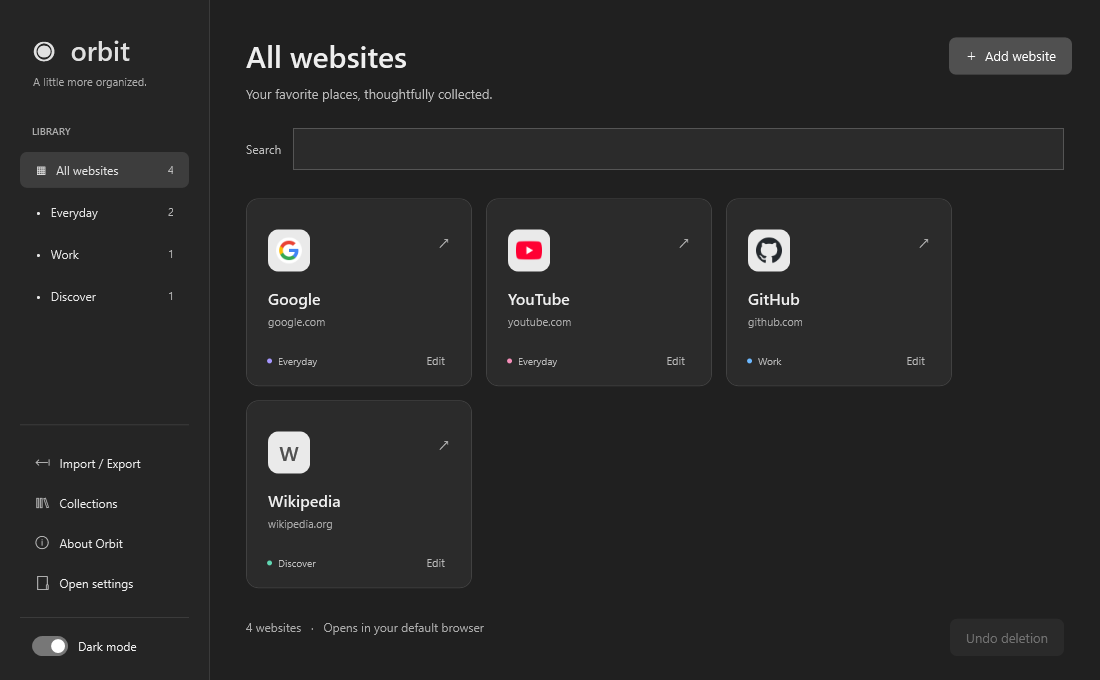
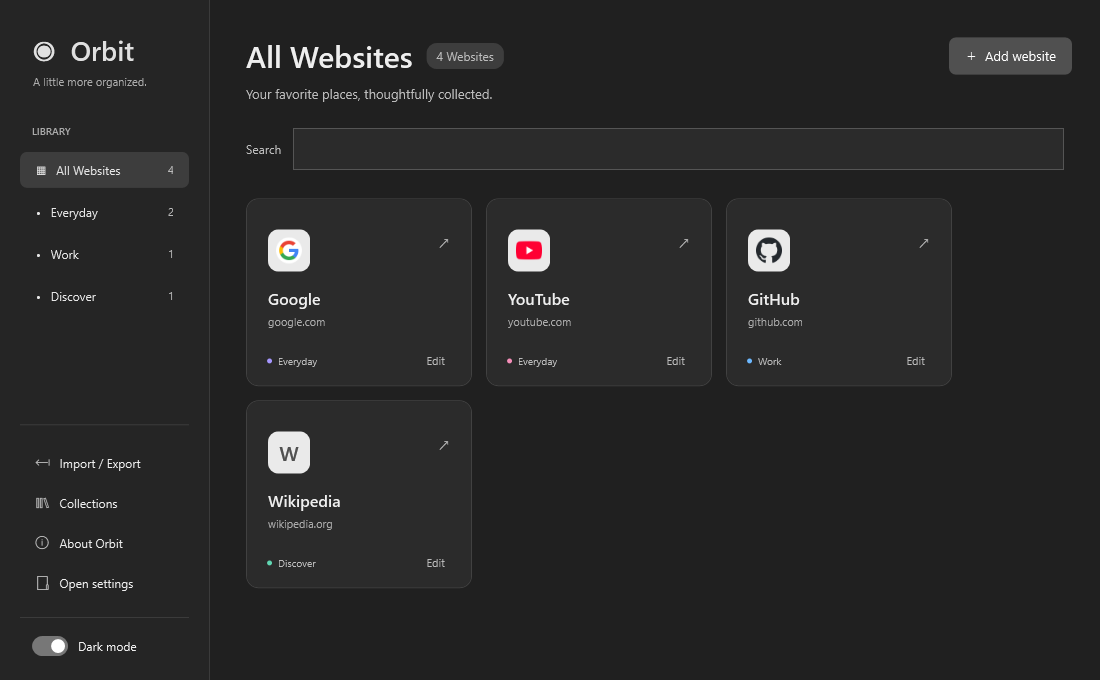
Rename application to Orbit and simplify library status and undo

diff --git a/App.xaml b/App.xaml
@@ -1,4 +1,4 @@
-<Application x:Class="ShortcutsPanel.App" xmlns="http://schemas.microsoft.com/winfx/2006/xaml/presentation" xmlns:x="http://schemas.microsoft.com/winfx/2006/xaml">
+<Application x:Class="Orbit.App" xmlns="http://schemas.microsoft.com/winfx/2006/xaml/presentation" xmlns:x="http://schemas.microsoft.com/winfx/2006/xaml">
 
   <Application.Resources>
 

diff --git a/MainWindow.cs b/MainWindow.cs
@@ -1,4 +1,4 @@
-using System.Diagnostics;
+using System.Diagnostics;
 using System.IO;
 using System.Text.Json;
 using System.Windows;
@@ -7,7 +7,7 @@ using System.Windows.Input;
 using System.Windows.Media;
 using System.Windows.Media.Imaging;
 using System.Net.Http;
-namespace ShortcutsPanel;
+namespace Orbit;
 public record Shortcut(string Name, string Url, string Group, string Color, string? Icon = null, string Id = "");
 public partial class MainWindow : Window
 {
@@ -17,7 +17,9 @@ public partial class MainWindow : Window
     readonly TextBlock heading = new() { FontSize = 30, FontWeight = FontWeights.SemiBold };
     static readonly Dictionary<string, Task<BitmapSource?>> logos = new();
     readonly TextBox search = new() { Width = 280, ToolTip = "Search by name, website, or collection" };
-    readonly TextBlock status = new() { Foreground = Brush("#939DB8"), FontSize = 12 };
+    readonly TextBlock websiteCount = new() { FontSize = 12, Foreground = Brush("#7B8377"), VerticalAlignment = VerticalAlignment.Center };
+    readonly TextBlock status = new() { FontSize = 12, VerticalAlignment = VerticalAlignment.Center, TextTrimming = TextTrimming.CharacterEllipsis };
+    Border undoNotice = null!;
     List<Shortcut> entries = [];
     string selectedGroup = "All";
     List<string> collectionOrder = [];
@@ -31,7 +33,7 @@ public partial class MainWindow : Window
         try { Theme.Apply(settings.LoadDarkTheme()); }
         catch { Theme.Apply(false); }
         Background = Brush("#FAF9F6"); Foreground = Brush("#252924"); FontFamily = new FontFamily("Segoe UI");
-        Title = "Orbit • Shortcuts Panel"; Width = 1100; Height = 720; MinWidth = 800; MinHeight = 520;
+        Title = "Orbit"; Width = 1100; Height = 720; MinWidth = 800; MinHeight = 520;
         WindowStartupLocation = WindowStartupLocation.CenterScreen; WindowState = WindowState.Maximized;
         var root = new Grid(); Content = root;
         root.ColumnDefinitions.Add(new ColumnDefinition { Width = new GridLength(210) });
@@ -39,7 +41,7 @@ public partial class MainWindow : Window
         var sidebar = new DockPanel { Margin = new Thickness(20, 32, 20, 24) };
         var sideSurface = new Border { Background = Brush("#F1F2ED"), BorderBrush = Brush("#E2E5DD"), BorderThickness = new Thickness(0,0,1,0), Child = sidebar }; root.Children.Add(sideSurface);
         var brand = new StackPanel { Margin = new Thickness(12, 0, 0, 36) };
-        brand.Children.Add(new TextBlock { Text = "◉  orbit", FontSize = 27, FontWeight = FontWeights.SemiBold, Foreground = Brush("#294B3C") });
+        brand.Children.Add(new TextBlock { Text = "◉  Orbit", FontSize = 27, FontWeight = FontWeights.SemiBold, Foreground = Brush("#294B3C") });
         brand.Children.Add(new TextBlock { Text = "A little more organized.", FontSize = 11, Foreground = Brush("#80877D"), Margin = new Thickness(1, 6, 0, 0) });
         DockPanel.SetDock(brand, Dock.Top); sidebar.Children.Add(brand);
         var bottom = new StackPanel();
@@ -68,17 +70,23 @@ public partial class MainWindow : Window
         var top = new StackPanel(); DockPanel.SetDock(top, Dock.Top); main.Children.Add(top);
         var header = new DockPanel(); top.Children.Add(header);
         var add = Button("＋  Add website", () => Edit(null), "#294B3D"); add.Foreground = Brushes.White; add.VerticalAlignment = VerticalAlignment.Center; DockPanel.SetDock(add, Dock.Right); header.Children.Add(add);
-        header.Children.Add(heading);
+        var titleRow = new DockPanel();
+        var countBadge = new Border { Background = Brush("#DFE6DA"), CornerRadius = new CornerRadius(10), Padding = new Thickness(10,5,10,5), Margin = new Thickness(14,0,18,0), VerticalAlignment = VerticalAlignment.Center, Child = websiteCount };
+        DockPanel.SetDock(heading, Dock.Left); titleRow.Children.Add(heading); titleRow.Children.Add(countBadge);
+        countBadge.HorizontalAlignment = HorizontalAlignment.Left;
+        header.Children.Add(titleRow);
         top.Children.Add(new TextBlock { Text = "Your favorite places, thoughtfully collected.", FontSize = 13, Foreground = Brush("#7B8377"), Margin = new Thickness(0, 9, 0, 26) });
         search.Width = double.NaN; search.HorizontalAlignment = HorizontalAlignment.Stretch;
         search.ToolTip = "Search websites and collections";
         System.Windows.Automation.AutomationProperties.SetName(search, "Search websites");
         var searchRow = new DockPanel { Margin = new Thickness(0, 0, 8, 28) };
         var searchLabel = new TextBlock { Text = "Search", VerticalAlignment = VerticalAlignment.Center, Margin = new Thickness(0,0,12,0), Foreground = Brush("#7B8377"), FontSize = 12 }; searchRow.Children.Add(searchLabel); searchRow.Children.Add(search); top.Children.Add(searchRow);
-        var footer = new DockPanel { Margin = new Thickness(0, 16, 8, 0) }; DockPanel.SetDock(footer, Dock.Bottom); main.Children.Add(footer);
-        undoButton = Button("Undo deletion", UndoDelete); undoButton.IsEnabled = false;
-        DockPanel.SetDock(undoButton, Dock.Right); footer.Children.Add(undoButton);
-        status.Foreground = Brush("#868D80"); footer.Children.Add(status);
+        var noticeRow = new DockPanel();
+        undoButton = Button("Undo", UndoDelete); undoButton.Margin = new Thickness(16,0,0,0);
+        DockPanel.SetDock(undoButton, Dock.Right); noticeRow.Children.Add(undoButton);
+        status.Foreground = Brush("#374632"); noticeRow.Children.Add(status);
+        undoNotice = new Border { Background = Brush("#DFE6DA"), BorderBrush = Brush("#E2E5DD"), BorderThickness = new Thickness(1), CornerRadius = new CornerRadius(10), Padding = new Thickness(14,8,8,8), Margin = new Thickness(0,12,8,0), MaxWidth = 460, HorizontalAlignment = HorizontalAlignment.Left, Visibility = Visibility.Collapsed, Child = noticeRow };
+        DockPanel.SetDock(undoNotice, Dock.Bottom); main.Children.Add(undoNotice);
         main.Children.Add(new ScrollViewer { Content = cards, VerticalScrollBarVisibility = ScrollBarVisibility.Auto, HorizontalScrollBarVisibility = ScrollBarVisibility.Disabled });
         search.TextChanged += (_, _) => RenderCards();
         Load(); Render();
@@ -126,9 +134,9 @@ public partial class MainWindow : Window
             b.HorizontalContentAlignment = HorizontalAlignment.Stretch;
             var row = new DockPanel { Width = 138 };
             var number = new TextBlock { Text = count.ToString(), Foreground = Brush("#7B8377"), FontSize = 11, VerticalAlignment = VerticalAlignment.Center }; DockPanel.SetDock(number, Dock.Right); row.Children.Add(number);
-            row.Children.Add(new TextBlock { Text = name == "All" ? "▦   All websites" : "•   " + name, FontSize = 12, TextTrimming = TextTrimming.CharacterEllipsis, Foreground = Brush("#374632") });
+            row.Children.Add(new TextBlock { Text = name == "All" ? "▦   All Websites" : "•   " + name, FontSize = 12, TextTrimming = TextTrimming.CharacterEllipsis, Foreground = Brush("#374632") });
             b.Content = row; b.Margin = new Thickness(0,0,0,6); groups.Children.Add(b);
-            System.Windows.Automation.AutomationProperties.SetName(b, name == "All" ? "All websites" : name);
+            System.Windows.Automation.AutomationProperties.SetName(b, name == "All" ? "All Websites" : name);
             if (name != "All") ConfigureCollection(b, name);
         }
         RenderCards();
@@ -160,8 +168,8 @@ public partial class MainWindow : Window
             cards.Children.Add(card); ConfigureCard(card, item);
         }
         if (filtered.Count == 0) cards.Children.Add(new TextBlock { Text = entries.Count == 0 ? "A fresh start. Add your first website above." : "No websites match. Try another search or collection.", FontSize = 18, Margin = new Thickness(0, 35, 0, 35) });
-        heading.Text = selectedGroup == "All" ? "All websites" : selectedGroup;
-        status.Text = $"{filtered.Count} websites   ·   Opens in your default browser";
+        heading.Text = selectedGroup == "All" ? "All Websites" : selectedGroup;
+        websiteCount.Text = $"{filtered.Count} {(filtered.Count == 1 ? "Website" : "Websites")}";
     }
     static async Task ApplyLogo(Border badge, string url)
     {

diff --git a/MainWindow.Features.cs b/MainWindow.Features.cs
@@ -1,4 +1,4 @@
-using System.Diagnostics;
+using System.Diagnostics;
 using System.IO;
 using System.Reflection;
 using System.Text.Json;
@@ -7,7 +7,7 @@ using System.Windows.Controls;
 using System.Windows.Input;
 using System.Windows.Media;
 
-namespace ShortcutsPanel;
+namespace Orbit;
 
 public partial class MainWindow
 {
@@ -72,7 +72,7 @@ public partial class MainWindow
                 if (choice == MessageBoxResult.Cancel) return;
                 var next = choice == MessageBoxResult.Yes ? LibraryOperations.Merge(entries, incoming.Links) : incoming.Links;
                 var order = choice == MessageBoxResult.Yes ? collectionOrder.Concat(incoming.Collections).Distinct().ToList() : incoming.Collections;
-                if (Save(next, order)) { deleted.Clear(); if (undoButton != null) undoButton.IsEnabled = false; dialog.Close(); }
+                if (Save(next, order)) { deleted.Clear(); UpdateUndoNotice(); dialog.Close(); }
             }
             catch (Exception ex) { MessageBox.Show(dialog, ex.Message, "Import failed — library unchanged"); }
         }); import.Margin = new Thickness(0,12,0,18); panel.Children.Add(import);
@@ -83,14 +83,19 @@ public partial class MainWindow
         var index = entries.FindIndex(x => x.Id == item.Id); if (index < 0) return false;
         var next = entries.ToList(); next.RemoveAt(index);
         if (!Save(next)) return false;
-        deleted.Push((item, index)); if (undoButton != null) undoButton.IsEnabled = true;
-        status.Text = $"Deleted {item.Name} · Undo is available"; return true;
+        deleted.Push((item, index)); UpdateUndoNotice(); return true;
+    }
+    void UpdateUndoNotice()
+    {
+        undoNotice.Visibility = deleted.Count > 0 ? Visibility.Visible : Visibility.Collapsed;
+        status.Text = deleted.TryPeek(out var latest) ? $"Removed {latest.Item.Name}" : "";
+        if (undoButton != null) undoButton.IsEnabled = deleted.Count > 0;
     }
     void UndoDelete()
     {
         if (!deleted.TryPeek(out var restore)) return;
         var next = entries.ToList(); next.Insert(Math.Min(restore.Index, next.Count), restore.Item);
-        if (Save(next)) { deleted.Pop(); if (undoButton != null) undoButton.IsEnabled = deleted.Count > 0; }
+        if (Save(next)) { deleted.Pop(); UpdateUndoNotice(); }
     }
     void ManageCollections()
     {

diff --git a/tests/FeatureChecks.cs b/tests/FeatureChecks.cs
@@ -3,7 +3,7 @@ using System.Reflection;
 using System.Text.Json;
 using System.Windows.Media;
 using System.Windows.Media.Imaging;
-using ShortcutsPanel;
+using Orbit;
 
 internal static class FeatureChecks
 {
@@ -17,6 +17,8 @@ internal static class FeatureChecks
         var app = new App(); app.InitializeComponent();
         Check(MainWindow.LoadAppIcon().PixelWidth > 0, "About icon loads from embedded resource");
         var window = new MainWindow(store);
+        var notice = (System.Windows.Controls.Border)typeof(MainWindow).GetField("undoNotice", BindingFlags.NonPublic | BindingFlags.Instance)!.GetValue(window)!;
+        Check(window.Title == "Orbit" && notice.Visibility == System.Windows.Visibility.Collapsed, "Orbit title and hidden initial Undo notice");
         object? Call(string method, params object?[] args) => typeof(MainWindow).GetMethod(method, BindingFlags.NonPublic | BindingFlags.Instance)!.Invoke(window, args);
         try
         {
@@ -31,7 +33,9 @@ internal static class FeatureChecks
             Check(JsonSerializer.Deserialize<List<Shortcut>>(store.Load()!)![0].Name == "C", "Card order persists");
             Check((bool)Call("DeleteShortcut", original[0])!, "Delete shortcut");
             Check(JsonSerializer.Deserialize<List<Shortcut>>(store.Load()!)!.Count == 2, "Deletion saved");
+            Check(notice.Visibility == System.Windows.Visibility.Visible, "Undo notice appears after deletion");
             Call("UndoDelete");
+            Check(notice.Visibility == System.Windows.Visibility.Collapsed, "Undo notice hides after restoring last deletion");
             Check(JsonSerializer.Deserialize<List<Shortcut>>(store.Load()!)!.Select(x => x.Name).SequenceEqual(new[] { "C", "A", "B" }), "Undo restores original position");
             var pngPath = Path.Combine(directory, "icon.png");
             var bitmap = BitmapSource.Create(2, 2, 96, 96, PixelFormats.Bgra32, null, new byte[] { 0,0,255,255, 0,255,0,255, 255,0,0,255, 255,255,255,255 }, 8);

diff --git a/tests/Program.cs b/tests/Program.cs
@@ -1,5 +1,5 @@
 using Microsoft.Win32;
-using ShortcutsPanel;
+using Orbit;
 var key = @"Software\OrbitStorageChecks\" + Guid.NewGuid().ToString("N");
 var folder = Path.Combine(Path.GetTempPath(), "OrbitStorageChecks-" + Guid.NewGuid().ToString("N"));
 Directory.CreateDirectory(folder);

diff --git a/LibraryOperations.cs b/LibraryOperations.cs
@@ -2,7 +2,7 @@ using System.IO;
 using System.Text.Json;
 using System.Text.RegularExpressions;
 
-namespace ShortcutsPanel;
+namespace Orbit;
 
 public sealed record LibraryExport(int Version, List<Shortcut> Links, List<string> Collections);
 

diff --git a/tests/ThemeChecks.cs b/tests/ThemeChecks.cs
@@ -3,7 +3,7 @@ using System.Windows.Controls;
 using System.Windows.Media;
 using System.Windows.Media.Imaging;
 using System.IO;
-using ShortcutsPanel;
+using Orbit;
 
 internal static class ThemeChecks
 {

diff --git a/Theme.cs b/Theme.cs
@@ -1,4 +1,4 @@
-using System.Windows;
+using System.Windows;
 
 using System.Windows.Media;
 
@@ -8,7 +8,7 @@ using System.ComponentModel;
 
 
 
-namespace ShortcutsPanel;
+namespace Orbit;
 
 
 

diff --git a/WebsiteIcons.cs b/WebsiteIcons.cs
@@ -5,7 +5,7 @@ using System.Text;
 using System.Text.RegularExpressions;
 using System.Windows.Media.Imaging;
 
-namespace ShortcutsPanel;
+namespace Orbit;
 
 public static class WebsiteIcons
 {

diff --git a/App.xaml.cs b/App.xaml.cs
@@ -1,5 +1,5 @@
 using System.Windows;
-namespace ShortcutsPanel;
+namespace Orbit;
 public partial class App : Application
 {
     protected override void OnStartup(StartupEventArgs e)

diff --git a/SettingsStore.cs b/SettingsStore.cs
@@ -2,7 +2,7 @@ using System.IO;
 using System.Text.Json;
 using Microsoft.Win32;
 
-namespace ShortcutsPanel;
+namespace Orbit;
 
 public sealed class SettingsStore
 {

diff --git a/CustomIcons.cs b/CustomIcons.cs
@@ -1,7 +1,7 @@
 using System.IO;
 using System.Windows.Media.Imaging;
 
-namespace ShortcutsPanel;
+namespace Orbit;
 
 public static class CustomIcons
 {
